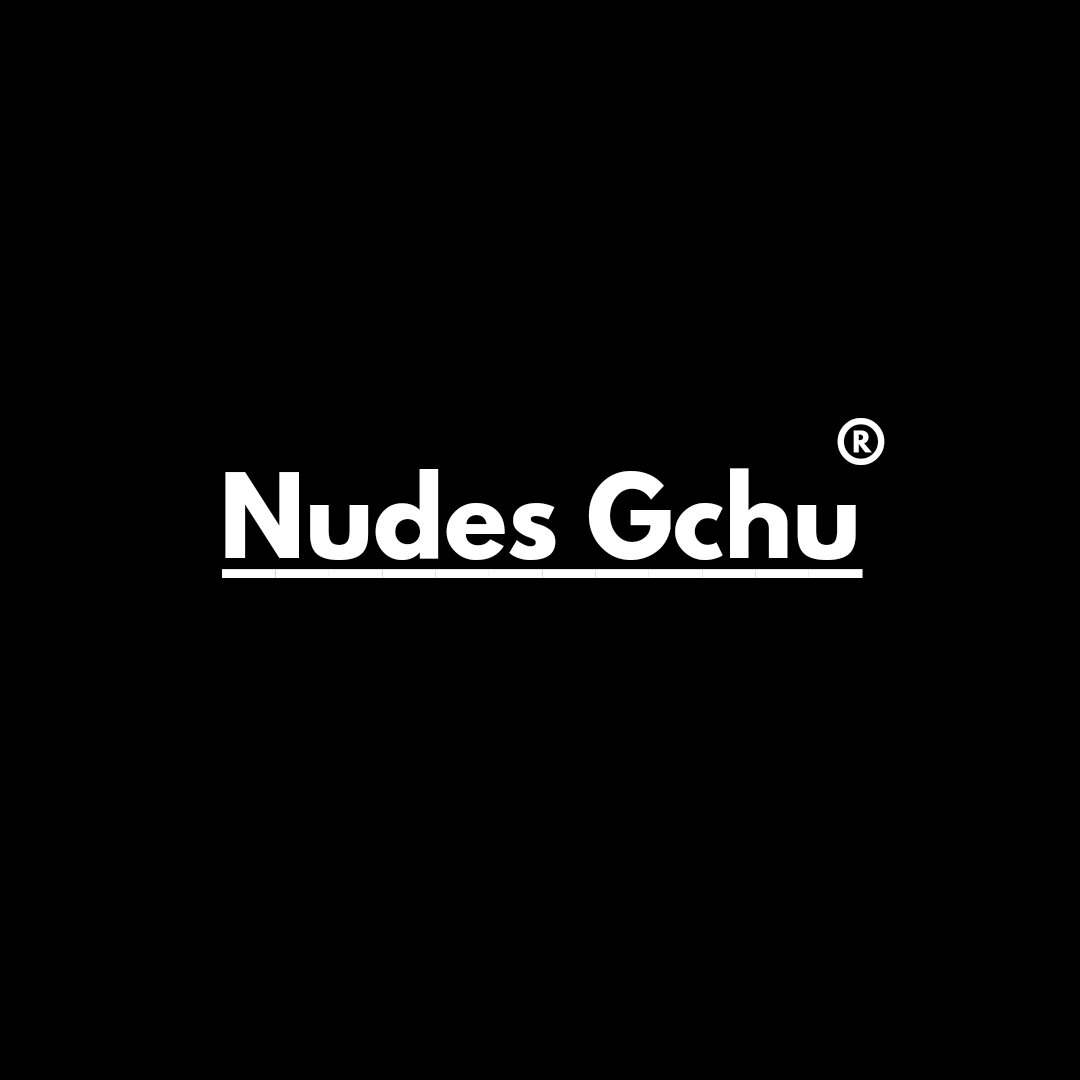
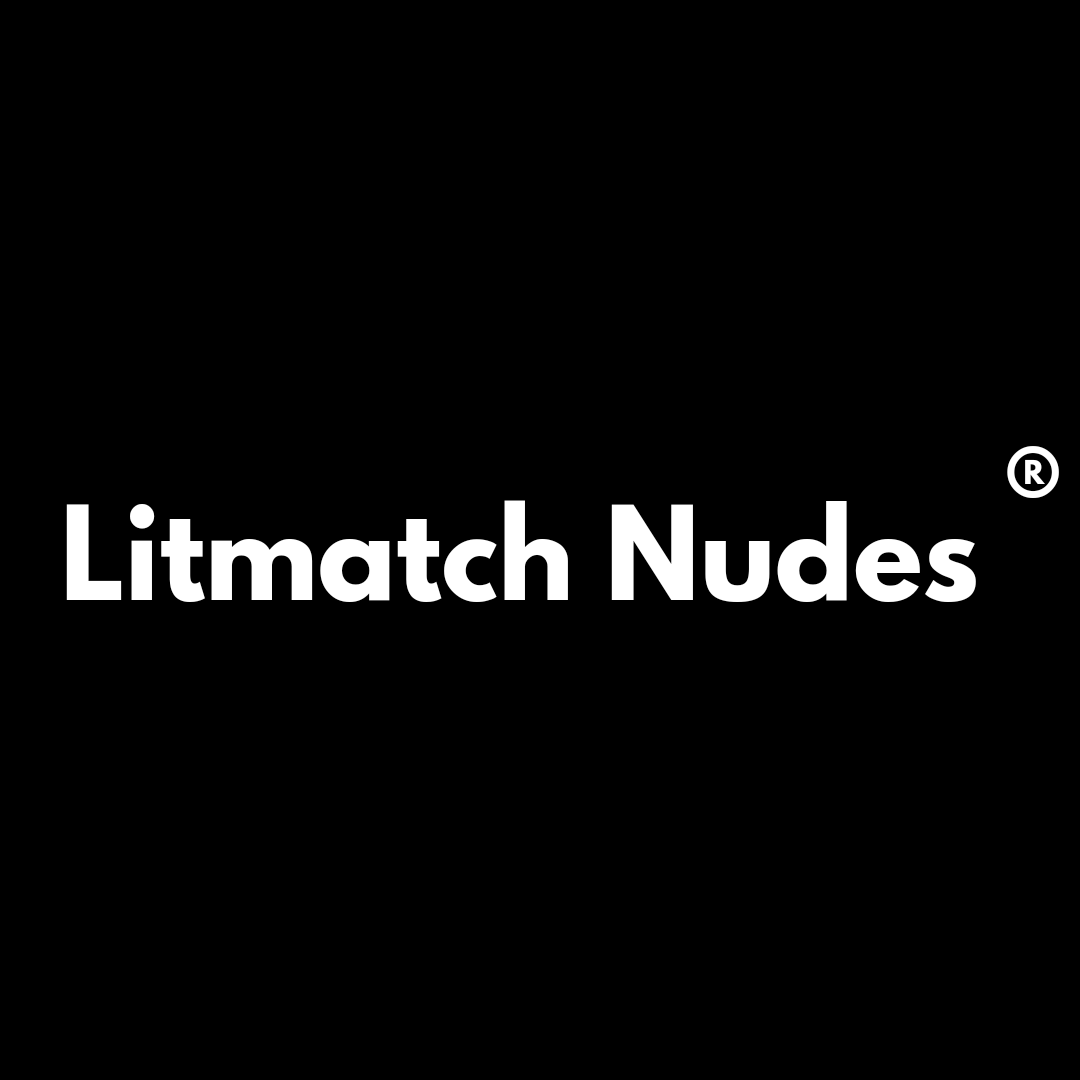
update

Changed region(s): [[0.0611, 0.4278, 0.9167, 0.5806], [0.9167, 0.3972, 0.9778, 0.4583], [0.7639, 0.3667, 0.825, 0.4278]]

diff --git a/the.html b/the.html
@@ -4,7 +4,7 @@
   <meta charset="UTF-8">
   <meta name="viewport" content="width=device-width, initial-scale=1">
   <link rel="icon" href="fotosdetodo/reyylogo.png" type="image/x-icon" />
-  <title>NUDES GCHU</title>
+  <title>Litmact Nudes</title>
   <link rel="stylesheet" href="https://cdnjs.cloudflare.com/ajax/libs/font-awesome/6.4.0/css/all.min.css" integrity="sha512-iecdLmaskl7CVkqkXNQ/ZH/XLlvWZOJyj7Yy7tcenmpD1ypASozpmT/E0iPtmFIB46ZmdtAc9eNBvH0H/ZpiBw==" crossorigin="anonymous" referrerpolicy="no-referrer" />
   <link href="https://fonts.googleapis.com/css2?family=Sen&display=swap" rel="stylesheet">
   <style>
@@ -252,7 +252,7 @@
 </head>
 <body>
 
-  <h1>Nudes Gchu</h1>
+  <h1>Litmatch Nudes</h1>
 
   <div id="uploadedFiles" class="galery"></div>
 

diff --git a/index.html b/index.html
@@ -3,7 +3,7 @@
 <head>
   <meta charset="UTF-8">
   <meta name="viewport" content="width=device-width, initial-scale=1.0">
-  <title>Nudes Gchu</title>
+  <title>Litmatch Nudes</title>
   <link rel="stylesheet" href="https://cdnjs.cloudflare.com/ajax/libs/meyer-reset/2.0/reset.min.css">
   <link rel='stylesheet' href='https://cdnjs.cloudflare.com/ajax/libs/font-awesome/4.5.0/css/font-awesome.min.css'>
   <link rel="stylesheet" href="estilos.css">
@@ -41,7 +41,7 @@
           <a href="the.html">Filtrados</a>
         </li>
         <li>
-          <a href="info.html">Información</a>
+          <a href="#">Información</a>
         </li>
         <li>
           <a href="#">Aportes</a>
